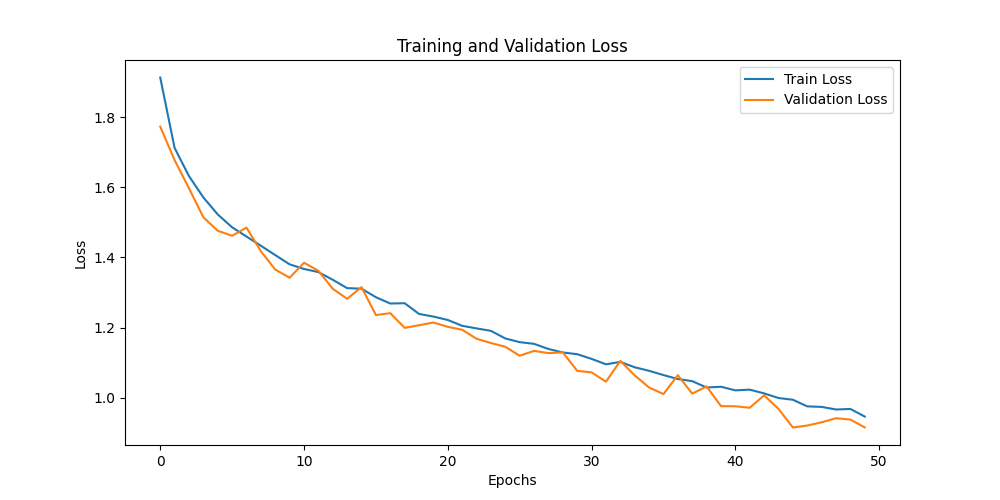
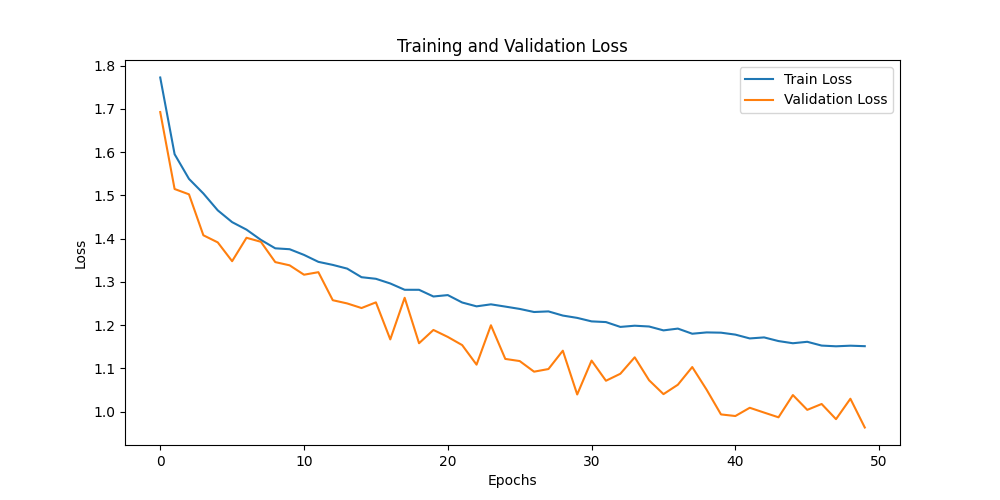
funciona Ej 5

diff --git a/src/exercise_05/evaluate.py b/src/exercise_05/evaluate.py
@@ -2,111 +2,183 @@ from pathlib import Path
 
 import matplotlib.pyplot as plt
 import numpy as np
+import pandas as pd
 import seaborn as sns
 import torch
-from torch.utils.data import DataLoader
-from sklearn.metrics import confusion_matrix
+from sklearn.metrics import confusion_matrix, precision_recall_fscore_support
+from torch.utils.data import DataLoader, random_split
 from torchvision import transforms
 
 from .dataset import CIFAR10Dataset
-from .model import MultiLayerPerceptron
+from .model import MultiLayerPerceptron_2
 
 
-def get_device(force: str = "auto") -> torch.device:
-    """Return a torch.device based on the `force` option."""
-    force = force.lower()
-    if force == "cpu":
-        return torch.device("cpu")
-    if force == "cuda":
-        return torch.device("cuda")
-    return torch.device("cuda" if torch.cuda.is_available() else "cpu")
+def evaluate_and_plot(loader, model, dataset_name, output_folder):
+    model.eval()
+    all_inputs = []
+    all_outputs = []
+    all_targets = []
 
+    with torch.no_grad():
+        for inputs, targets in loader:
+            outputs = model(inputs)
+            probs = torch.softmax(outputs, dim=1)
+            all_inputs.append(inputs.numpy())
+            all_outputs.append(probs.numpy())
+            all_targets.append(targets.numpy())
 
-def plot_confusion_matrix(cm, class_names, output_folder):
-    """Plot and save confusion matrix."""
-    plt.figure(figsize=(12, 10))
-    
-    # Plot confusion matrix
-    sns.heatmap(cm, annot=True, fmt='d', xticklabels=class_names, 
-                yticklabels=class_names, cmap='Blues', cbar=True)
-    plt.title('Confusion Matrix - CIFAR-10 Classification')
-    plt.ylabel('True Label')
-    plt.xlabel('Predicted Label')
-    plt.xticks(rotation=45)
-    plt.yticks(rotation=0)
-    plt.tight_layout()
-    
-    # Save the plot
-    plt.savefig(output_folder / "confusion_matrix.png", dpi=300, bbox_inches='tight')
+    all_inputs = np.concatenate(all_inputs)
+    all_outputs = np.concatenate(all_outputs)
+    all_targets = np.concatenate(all_targets)
+
+    # Lets plot the confusion matrix as a heatmap
+    indexes_of_outputs = []
+    for elements in all_outputs:
+        indexes_of_outputs.append(np.argmax(elements))
+    indexes_of_outputs = np.array(indexes_of_outputs)
+
+    # Classes of CIFAR-10 dataset
+    cifar10_classes = [
+        "Avión",
+        "Coche",
+        "Pájaro",
+        "Gato",
+        "Ciervo",
+        "Perro",
+        "Rana",
+        "Caballo",
+        "Barco",
+        "Camión",
+    ]
+
+    # Set the confusion matrix
+    map = confusion_matrix(all_targets, indexes_of_outputs)
+
+    # Plot and save the confusion matrix as a heatmap
+    plt.figure(figsize=(10, 8))
+    sns.heatmap(
+        map,
+        annot=True,
+        fmt="d",
+        cmap="Blues",
+        xticklabels=cifar10_classes,
+        yticklabels=cifar10_classes,
+    )
+
+    plt.xlabel("Predicción")
+    plt.ylabel("Realidad (Target)")
+    plt.title("Matriz de Confusión - CIFAR-10")
+    plt.savefig(output_folder / f"confusion_matrix_{dataset_name}.png")
     plt.show()
-    plt.close()
+
+    # Let's obtain the accuracy, precision, recall and F1 score for the dataset
+    predictions = np.zeros(len(all_targets))
+    for i in range(len(all_targets)):
+        if all_targets[i] == all_outputs[i].argmax():
+            predictions[i] = 1
+        else:
+            predictions[i] = 0
+
+    # Calculate accuracy
+    accuracy = 100 * sum(predictions) / len(predictions)
+    print(f"Accuracy: {accuracy:.4f}%")
+
+    prec, rec, f1, support = precision_recall_fscore_support(
+        all_targets, indexes_of_outputs, average=None
+    )
+
+    print(f"{'CLASE':<10} {'PRECISION':<10} {'RECALL':<10} {'F1-SCORE':<10} {'CANTIDAD (Support)'}")
+    print("-" * 60)
+
+    for i in range(10):
+        print(
+            f"{cifar10_classes[i]:<10} {prec[i]:.2f}       {rec[i]:.2f}       {f1[i]:.2f}       {support[i]}"
+        )
+
+    metrics = {
+        "Accuracy": accuracy,
+        "Clase": [
+            "Avión",
+            "Coche",
+            "Pájaro",
+            "Gato",
+            "Ciervo",
+            "Perro",
+            "Rana",
+            "Caballo",
+            "Barco",
+            "Camión",
+        ],
+        "Precision": prec,
+        "Recall": rec,
+        "F1-Score": f1,
+        "Cantidad": support,
+    }
+    return metrics
+
+
+def save_metrics_as_picture(metrics, filepath):
+    # Create a DataFrame
+    df = pd.DataFrame(metrics)
+
+    # Round the values to 6 decimal places
+    df = df.round(6)
+
+    # Plot the table and save as an image
+    fig, ax = plt.subplots(figsize=(16, 10))  # set size frame
+    ax.axis("tight")
+    ax.axis("off")
+    table = ax.table(
+        cellText=df.values, colLabels=df.columns, rowLabels=df.index, cellLoc="center", loc="center"
+    )
+    table.auto_set_font_size(False)
+    table.set_fontsize(14)
+    table.scale(1, 2.5)
+    plt.savefig(filepath, bbox_inches="tight", dpi=300)
 
 
 if __name__ == "__main__":
     output_folder = Path(__file__).parent.parent.parent / "outs" / Path(__file__).parent.name
     output_folder.mkdir(exist_ok=True, parents=True)
-    
     # Set the seed for reproducibility
     torch.manual_seed(42)
-    
-    # Set device
-    device = get_device("auto")
-    print(f"Using device: {device}")
-    
-    # Define transformations
+    # Data augmentation
     transform = transforms.Compose(
         [transforms.ToTensor(), transforms.Normalize((0.0, 0.0, 0.0), (1.0, 1.0, 1.0))]
     )
-    
-    # Load test dataset
-    dataset_test = CIFAR10Dataset("./data", train=False, transform=transform)
-    
-    # Create DataLoader
-    test_loader = DataLoader(dataset_test, batch_size=64, shuffle=False)
-    
-    # Class names for CIFAR-10
-    class_names = ['airplane', 'automobile', 'bird', 'cat', 'deer',
-                   'dog', 'frog', 'horse', 'ship', 'truck']
-    
-    # Initialize model
-    input_dim = (3, 32, 32)
-    output_dim = 10
-    model = MultiLayerPerceptron(input_dim, output_dim, num_hidden_neurons=128).to(device)
-    
+
+    # Cargas el bloque de 50k
+    full_train_data = CIFAR10Dataset("./data", train=True, transform=transform)
+    # Divides ese bloque en dos (90% entrenamiento, 10% validación interna)
+    train_subset, val_subset = random_split(full_train_data, [45000, 5000])
+
+    # Cargas el bloque de 10k de test (con transform limpia, sin augmentation)
+    test_dataset = CIFAR10Dataset("./data", train=False, transform=transform)
+
+    # Create DataLoaders for the datasets
+    train_loader = DataLoader(train_subset, batch_size=2024, shuffle=True)
+    val_loader = DataLoader(val_subset, batch_size=2024, shuffle=False)
+    test_loader = DataLoader(test_dataset, batch_size=2024, shuffle=False)
+
     # Load the best model weights
-    best_model_path = output_folder / "best_model.pth"
-    if not best_model_path.exists():
-        raise FileNotFoundError(f"Model weights not found at {best_model_path}")
-    
-    model.load_state_dict(torch.load(best_model_path, map_location='cpu'))
-    print(f"Loaded model from {best_model_path}")
-    
-    # Evaluate
-    model.eval()
-    all_predictions = []
-    all_targets = []
-    
-    print("Generating confusion matrix...")
-    with torch.no_grad():
-        for images, targets in test_loader:
-            outputs = model(images, use_activation=False)
-            predictions = torch.argmax(outputs, dim=1)
-            
-            all_predictions.extend(predictions.numpy())
-            all_targets.extend(targets.numpy())
-    
-    # Convert to numpy arrays
-    all_predictions = np.array(all_predictions)
-    all_targets = np.array(all_targets)
-    
-    # Calculate accuracy
-    accuracy = np.mean(all_predictions == all_targets)
-    print(f"\nTest Accuracy: {accuracy:.4f} ({accuracy*100:.2f}%)")
-    
-    # Generate confusion matrix
-    cm = confusion_matrix(all_targets, all_predictions)
-    
-    # Plot and save confusion matrix
-    plot_confusion_matrix(cm, class_names, output_folder)
-    
-    print(f"\nConfusion matrix saved to: {output_folder / 'confusion_matrix.png'}")
+    model = MultiLayerPerceptron_2(output_dim=10)
+    model.load_state_dict(torch.load(output_folder / "best_model.pth"))
+
+    metrics = {}
+    # Evaluate and plot for train, validation and test datasets
+    metrics["train"] = evaluate_and_plot(train_loader, model, "train", output_folder)
+    metrics["validation"] = evaluate_and_plot(val_loader, model, "validation", output_folder)
+    metrics["test"] = evaluate_and_plot(test_loader, model, "test", output_folder)
+
+    # save  metrics as csv
+    pd.DataFrame(metrics["train"]).to_csv(output_folder / "metrics_train.csv")
+    pd.DataFrame(metrics["validation"]).to_csv(output_folder / "metrics_validation.csv")
+    pd.DataFrame(metrics["test"]).to_csv(output_folder / "metrics_test.csv")
+    pd.DataFrame(metrics).to_csv(output_folder / "metrics.csv")
+
+    # Save the metrics as an image
+    save_metrics_as_picture(metrics["train"], output_folder / "metrics_train.png")
+    save_metrics_as_picture(metrics["validation"], output_folder / "metrics_validation.png")
+    save_metrics_as_picture(metrics["test"], output_folder / "metrics_test.png")
+
+    print("Evaluation complete!")

diff --git a/src/exercise_05/train.py b/src/exercise_05/train.py
@@ -9,7 +9,7 @@ from torchvision import datasets, transforms
 from tqdm import tqdm
 
 from .dataset import CIFAR10Dataset
-from .model import MultiLayerPerceptron
+from .model import MultiLayerPerceptron_2
 
 def get_device(force: str = "auto") -> torch.device:
     """Return a torch.device based on the `force` option.
@@ -39,9 +39,8 @@ def train_model(output_folder: Path, device: torch.device):
     val_loader = DataLoader(dataset_val, batch_size=256, shuffle=False, pin_memory=pin_memory)
 
     # Define the model, loss function, and optimizer
-    input_dim = 3072 # (3x32x32)
     output_dim = 10
-    model = MultiLayerPerceptron(input_dim, output_dim, num_hidden_neurons=128).to(device)
+    model = MultiLayerPerceptron_2(output_dim).to(device)
     criterion = nn.CrossEntropyLoss() # Reemplaza a nn.MSELoss()
     optimizer = optim.AdamW(model.parameters(), lr=0.001)
 
@@ -60,7 +59,7 @@ def train_model(output_folder: Path, device: torch.device):
             # Forward pass
             inputs_cuda = inputs.to(device)
             targets_cuda = targets.to(device)
-            outputs = model(inputs_cuda, use_activation=False)
+            outputs = model(inputs_cuda)
             loss = criterion(outputs, targets_cuda)
 
 
@@ -82,7 +81,7 @@ def train_model(output_folder: Path, device: torch.device):
             for inputs, targets in val_loader:
                 inputs_cuda = inputs.to(device)
                 targets_cuda = targets.to(device)
-                outputs = model(inputs_cuda, use_activation=False)
+                outputs = model(inputs_cuda)
                 loss = criterion(outputs, targets_cuda)
                 val_loss += loss.item()
 

diff --git a/src/exercise_05/model.py b/src/exercise_05/model.py
@@ -24,10 +24,47 @@ class MultiLayerPerceptron(nn.Module):
         if use_activation:
             x = self.out_act(x)
         return x
+    
+class MultiLayerPerceptron_2(nn.Module):
+    def __init__(self, output_dim):
+        super().__init__()
+        self.flat = nn.Flatten(start_dim=1)
+        self.linear = nn.Linear(3072, 512)
+        self.BatchNorm = nn.BatchNorm1d(512)
+        self.dropout = nn.Dropout(0.2) # Apaga neuronas
+        self.linear2 = nn.Linear(512, 256) # Dimensiones reducidas en comparación con Linear
+        self.BatchNorm2 = nn.BatchNorm1d(256)
+        self.linear3 = nn.Linear(256, 128) # Reducción de dimensiones
+        self.BatchNorm3 = nn.BatchNorm1d(128)
+        self.output_layer = nn.Linear(128, output_dim)  
+        self.activation = nn.ReLU() # Capa de activación
+
+
+    def forward(self, x):
+        x = self.flat(x) # Es necesario obtener un vector a partir de la imagen porque las FC no trabajan con imagenes
+        
+        x = self.linear(x)
+        x = self.activation(x)
+        x = self.BatchNorm(x)
+        x = self.dropout(x)
+
+        x = self.linear2(x)
+        x = self.activation(x)
+        x = self.BatchNorm2(x)
+        x = self.dropout(x)
+
+        x = self.linear3(x)
+        x = self.activation(x)
+        x = self.BatchNorm3(x)
+        x = self.dropout(x)
+
+        x = self.output_layer(x)
+        
+        return x
+
 
 if __name__ == "__main__":
     model = MultiLayerPerceptron(1000, 2, 256)
-
     x = torch.randn(1, 1000)
     print(model.forward(x))
     pass

diff --git a/src/exercise_05/readme_exercise.md b/src/exercise_05/readme_exercise.md
@@ -12,18 +12,19 @@ Which are the conclussions?
 
 ## Task Formalization
 
-Write your answer here
+El objetivo de la práctica es realizar la comparativa entre los resultados obtenidos con una red lineal compuesta por Fully Connected y una red Convolucional. En este ejercicio se aborda el desarrollo y el entrenamiento de la red FC para la solución de un problema de clasificación de imágen multiclase.
 
 ### Task Formalization (Inference)
 
-Write your answer here
+La imagen de entrada tiene un tamaño de 3x32x32, al ser RGB. Como se está trabajando con un conjunto de capas FC, es necesario convertir el tensor en un vector de 3072 elementos. Una vez se tienen los datos listos, se alimenta la red de capas Fully Connected, obteniendo a la salida un vector de dimensión 10. 
+
 ### Task Formalization (Training)
 
-Write your answer here
+El entrenamiento de la red será lento, pues una imagen corresponde a un gran número de datos. Cuanto mayor sea el número de capas, más parámetros y pesos deberán ajustarse y más tiempo de procesamiento requerirá. Con Batch Normalization, es posible acelerar la convergencia y lograr mejores resultados en menor tiempo. Se utilizará una técnica dropout para apagar un número determinado de neuronas aleatorias con el fin de evitar overfitting. Como función de pérdida, al tratarse de un ejercicio de clasificación de imágenes, se recurrirá a Entropía Cruzada.
 
 ## Evaluation metrics
 
-Write your answer here
+Para la evaluación se implementa la generación de una matriz de confusión que permita observar de forma gráfica la capacidad de predicción de la red.
 
 ## Data Considerations
 
